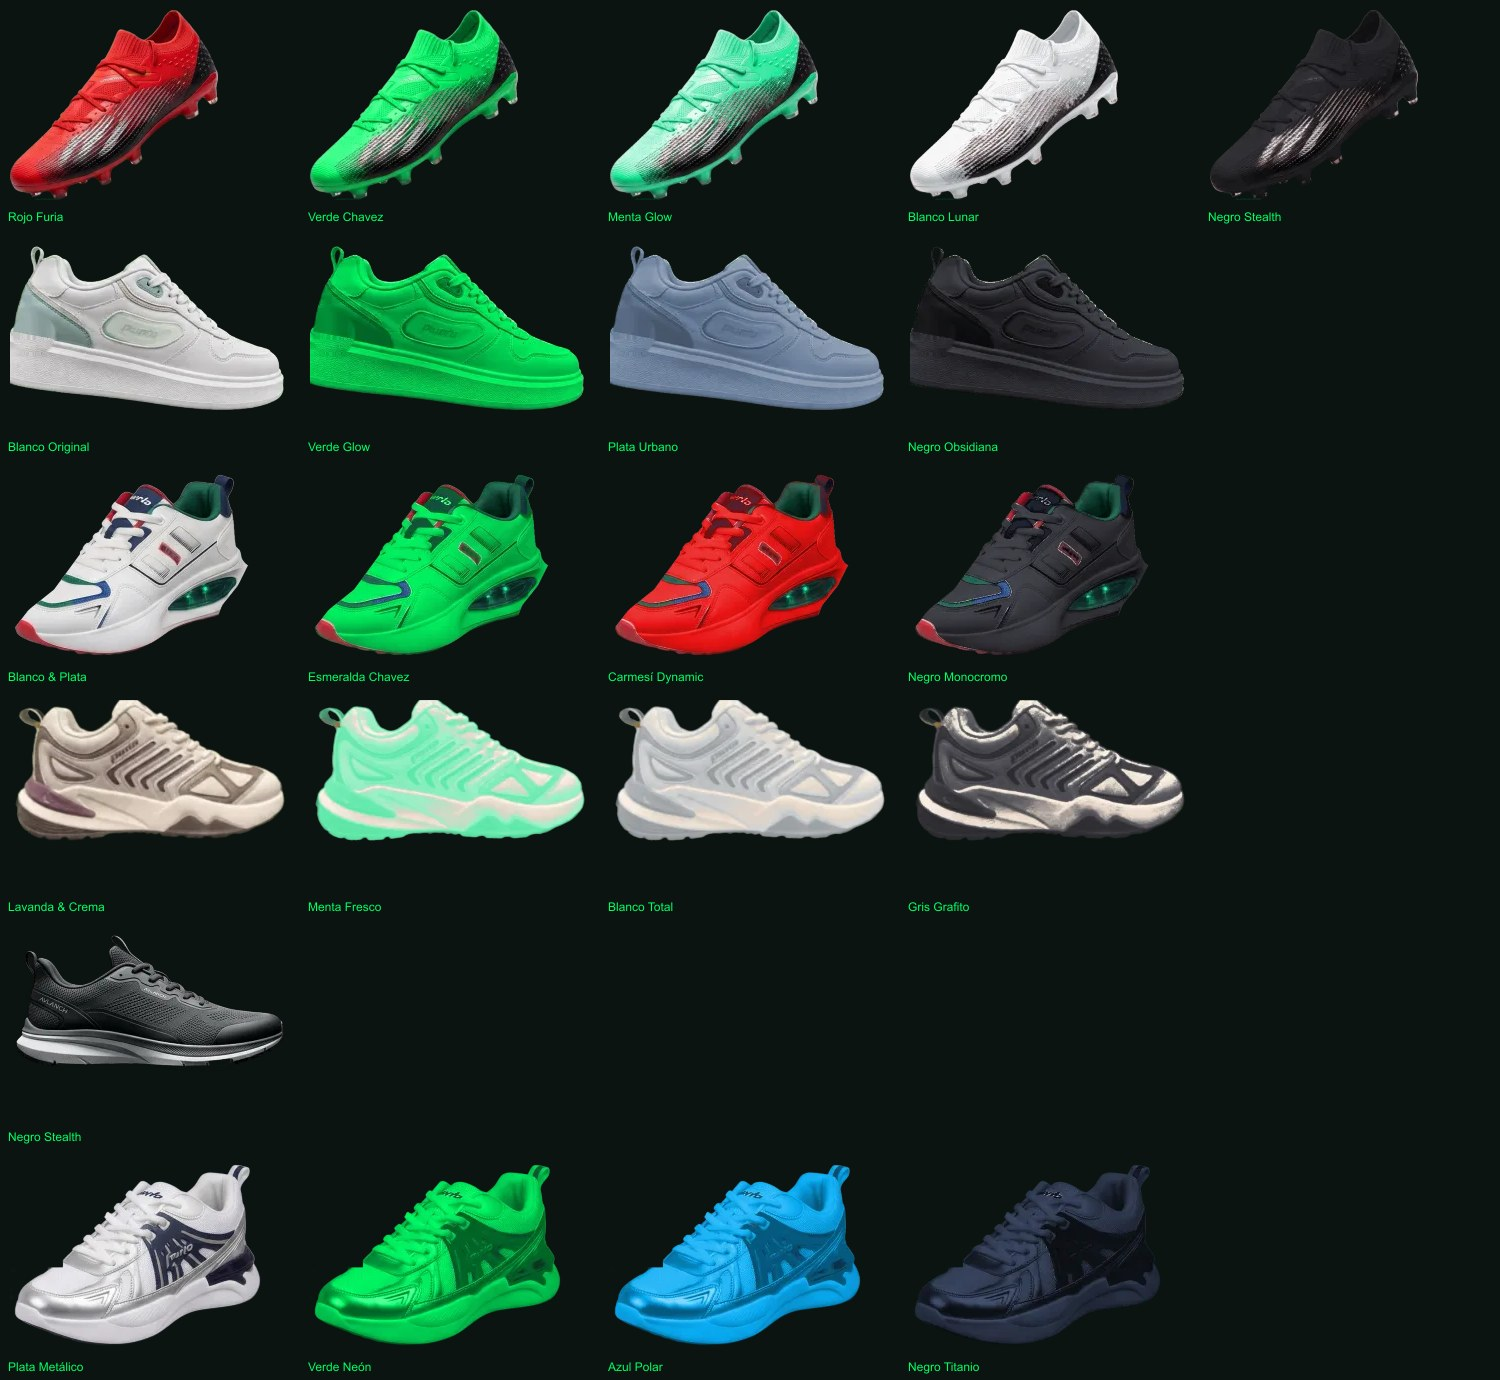
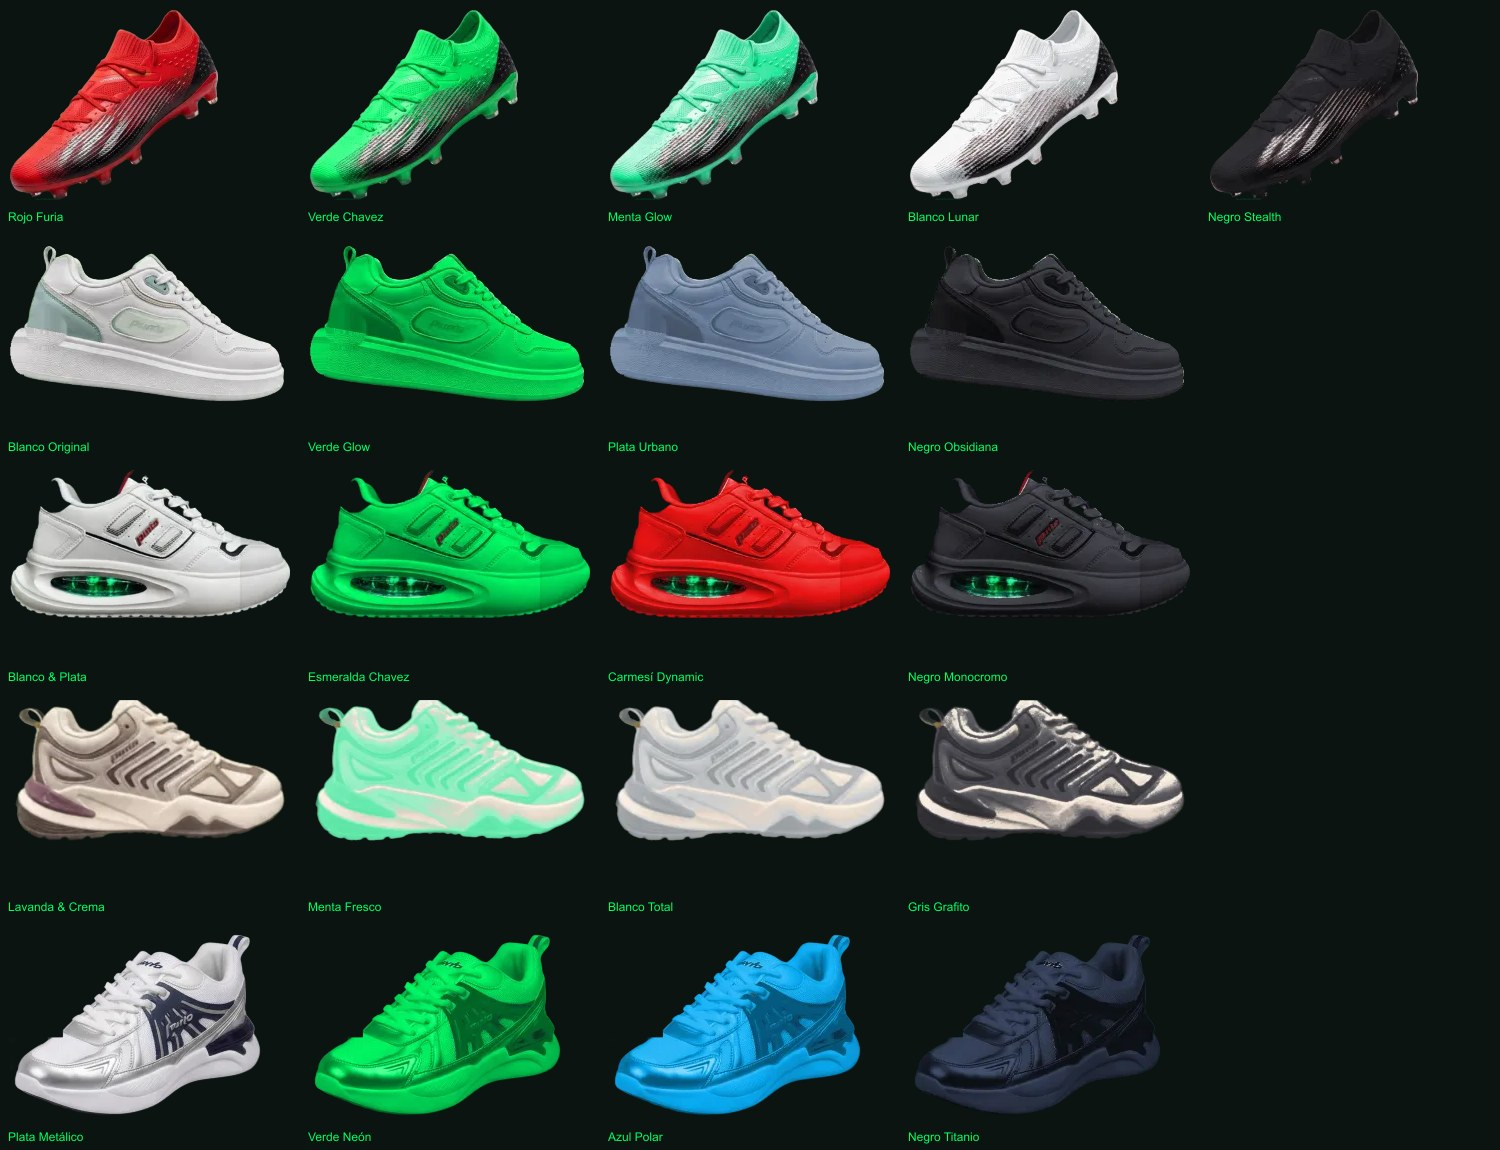
quita Stealth Runner; talones completos: Air Glow real restaurado y Urban Low con suela redondeada; catalogo centrado

diff --git a/src/components/CatalogSection.tsx b/src/components/CatalogSection.tsx
@@ -20,11 +20,11 @@ export const CatalogSection: React.FC<CatalogSectionProps> = ({ onSelectProductM
           </p>
         </div>
 
-        <div className="grid grid-cols-1 md:grid-cols-2 lg:grid-cols-3 gap-6 sm:gap-8">
+        <div className="flex flex-wrap justify-center gap-6 sm:gap-8">
           {PRODUCTS.map((product) => (
             <article
               key={product.id}
-              className="group rounded-3xl bg-[#090f0c] border border-white/10 hover:border-emerald-500/40 p-6 flex flex-col transition-colors duration-300"
+              className="group w-full md:w-[calc((100%-2rem)/2)] lg:w-[calc((100%-4rem)/3)] rounded-3xl bg-[#090f0c] border border-white/10 hover:border-emerald-500/40 p-6 flex flex-col transition-colors duration-300"
             >
               <button
                 type="button"

diff --git a/src/data/storeData.ts b/src/data/storeData.ts
@@ -115,23 +115,6 @@ export const PRODUCTS: Product[] = [
       'Respuesta inmediata en cada paso',
     ],
   },
-  {
-    id: 'stealth-runner',
-    name: 'Punto Original Stealth Runner',
-    code: 'STH-2026-BLK',
-    price: 159.0,
-    image: shoeImage('stealth-runner', 'black'),
-    badge: 'HIGH PERFORMANCE',
-    description: 'Silueta aerodinámica monocromo con suela esculpida de polímero EVA y capellada transpirable.',
-    sizes: [38, 39, 40, 41, 42, 43, 44],
-    colors: colorsFor('stealth-runner'),
-    features: [
-      'Malla técnica transpirable de alta resistencia',
-      'Suela amortiguada con agarre antideslizante',
-      'Diseño ultra ligero para máximo rendimiento',
-      'Plantilla acolchada anti-fatiga',
-    ],
-  },
 ];
 
 export const STORE_INFO = {
